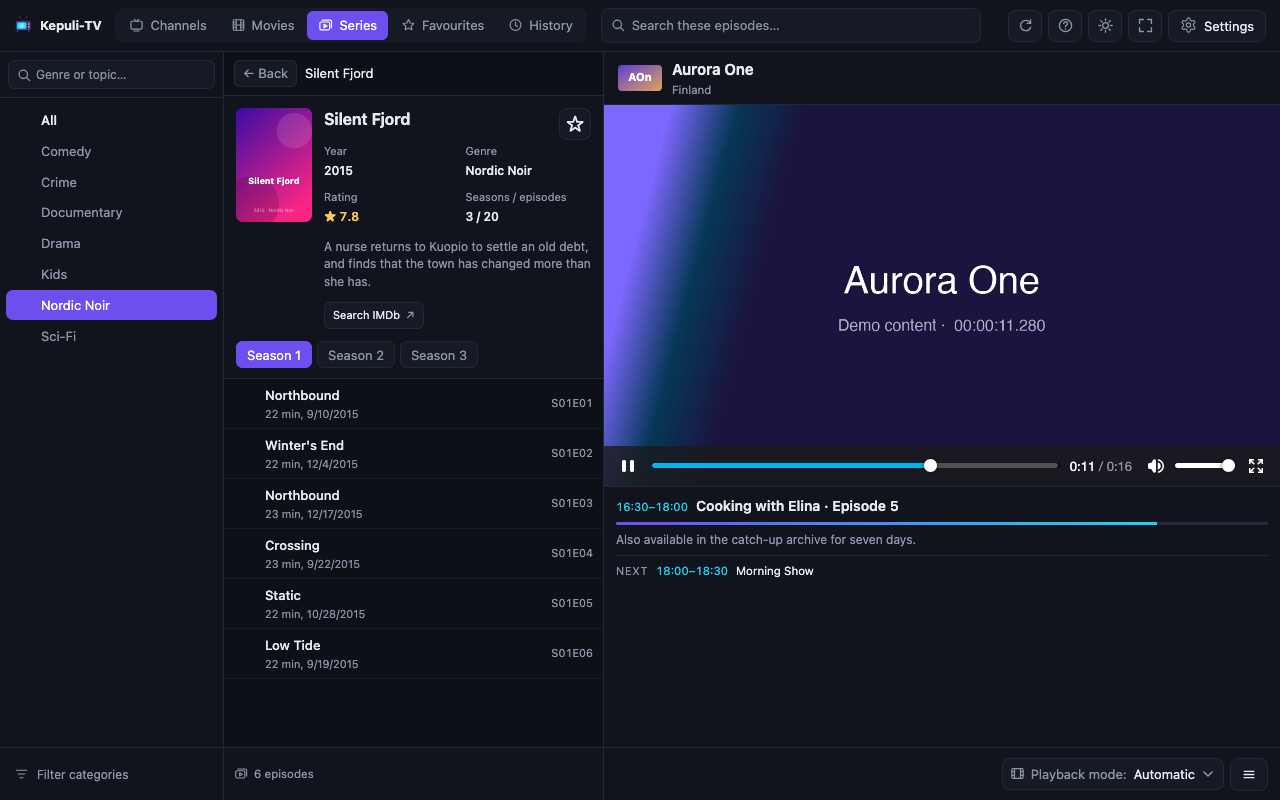
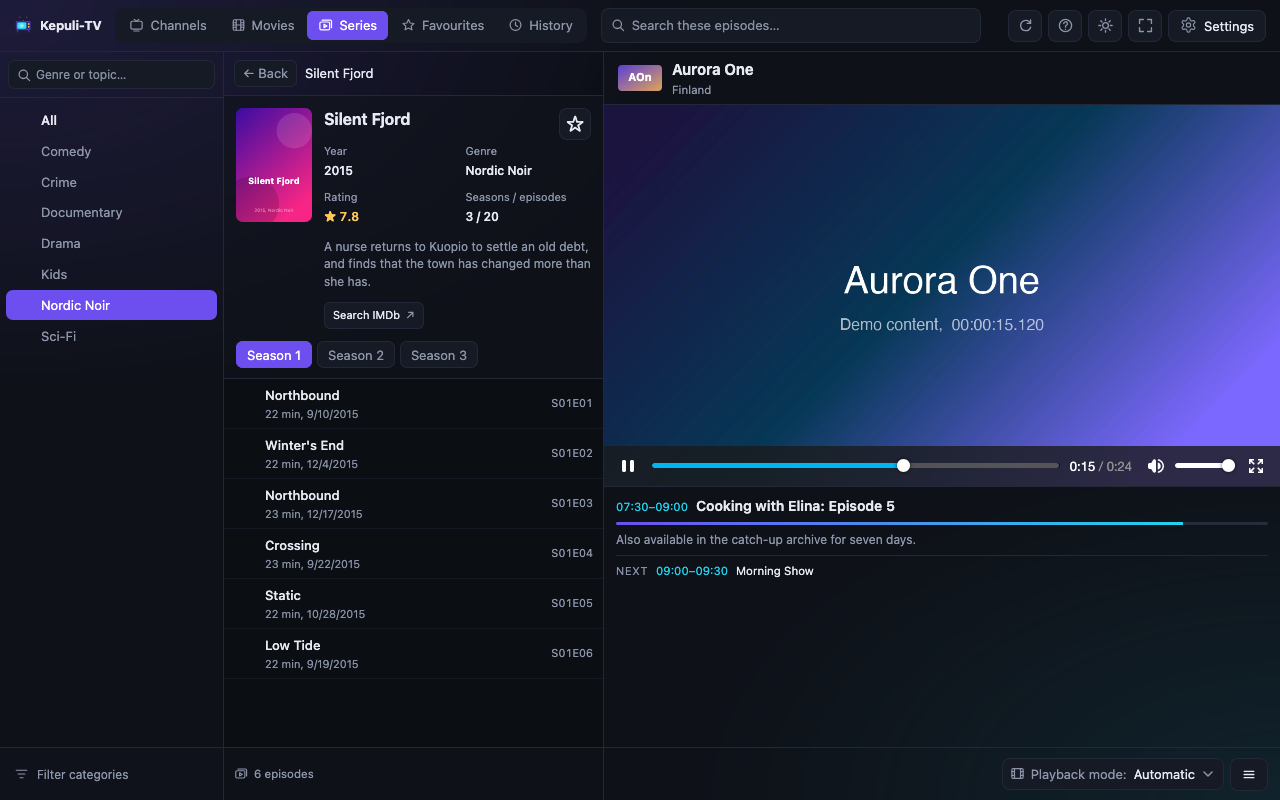
Release 1.9.1: the player glows softly in its own colours
The background glows in the theme's two colours behind see-through panes.
Both stores' screenshot sets are retaken for the new look and copied to
the Pages site.

Claude-Session: https://claude.ai/code/session_011jsMnvavrX9QT7mi8kWFbA

diff --git a/docs/index.html b/docs/index.html
@@ -199,7 +199,7 @@
 
 <main>
 <h1>Kepuli-TV</h1>
-<p class="meta">The README of the Kepuli-TV browser extension, version 1.9.0. <a href="https://github.com/BigTimeSam/kepuli-tv">Source on GitHub</a></p>
+<p class="meta">The README of the Kepuli-TV browser extension, version 1.9.1. <a href="https://github.com/BigTimeSam/kepuli-tv">Source on GitHub</a></p>
 
 <section class="hero" aria-label="Get Kepuli-TV">
 <p class="lead">Your own IPTV subscription, played in a browser tab: live TV with a programme guide, films and series, recording, in thirty languages. Free and open source.</p>
